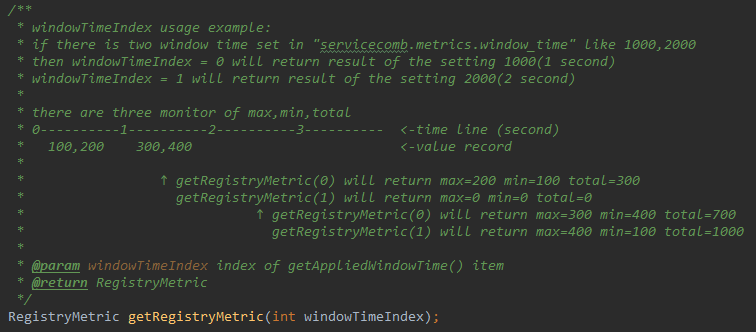
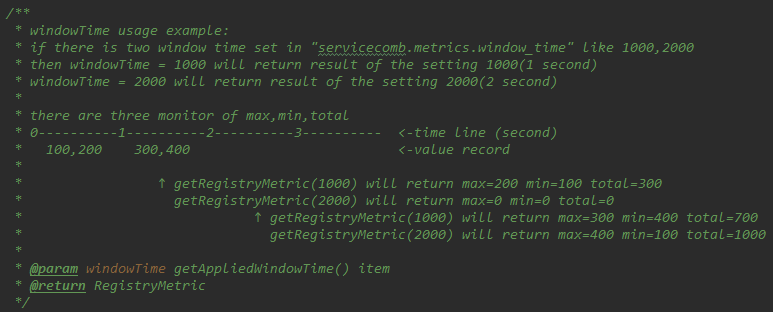
[SCB-132] User Guide and Quick Start for Metrics 1.0.0-m1 (#23)
* SCB-132 fix PR comment and update style

* SCB-132 fix PR comment and update style

* SCB-132 fix PR comment and update style

diff --git a/_users/cn/metrics-in-1.0.0-m1.md b/_users/cn/metrics-in-1.0.0-m1.md
@@ -25,11 +25,11 @@ redirect_from:
 
 ## 1.0.00-m1版本原理
 在0.5.0版本的实现介绍[0.5.0版本中的监控](/cn/users/metrics-in-0.5.0/)中，存在一些问题：
-1.metrics在foundation-metrics模块中实现，并且包含了一些具体的定制代码；  
-2.使用ThreadLocal变量收集和汇总数据，虽然性能很高，但是存在内存泄漏的风险；  
-3.Metrics的输出为固定的文本，而不是独立的数值，数据使用起来很不方便；  
-4.没有提供通用数据发布接口，难以和更多的第三方监控系统做集成；  
-5.由于foundation-metrics模块过于底层，用户无法以可选的方式决定是否启用；  
+1. metrics在foundation-metrics模块中实现，并且包含了一些具体的定制代码；  
+2. 使用ThreadLocal变量收集和汇总数据，虽然性能很高，但是存在内存泄漏的风险；  
+3. Metrics的输出为固定的文本，而不是独立的数值，数据使用起来很不方便；  
+4. 没有提供通用数据发布接口，难以和更多的第三方监控系统做集成；  
+5. 由于foundation-metrics模块过于底层，用户无法以可选的方式决定是否启用；  
 
 因此，从0.5.0版本升级到1.0.0-m1版本，我们进行了一次全面的重构，重构后的Metrics将分为三个模块  
 
@@ -53,7 +53,7 @@ redirect_from:
 | InvocationStartProcessingEventListener | Producer从队列中取出调用开始处理      |
 | InvocationFinishedEventListener        | Consumer调用返回或Producer处理完毕 |
 
-*特别说明，Java Chassis的Reactor框架基于Vertx，微服务Producer端收到Invocation后，并不会马上同步处理请求，而是将它放入一个处理队列中，Invocation在队列中的时间称为LifeTimeInQueue，队列的长度称为waitInQueue，这是衡量微服务压力的两个重要指标，可以参考操作系统磁盘读写队列的概念；Consumer端并不会有队列，因此永远不会触发InvocationStartProcessingEvent。
+*特别说明，Java Chassis的Reactor框架基于Vertx，微服务Producer端收到Invocation后，并不会马上同步处理请求，而是将它放入一个处理队列中，Invocation在队列中的时间称为LifeTimeInQueue，队列的长度称为waitInQueue，这是衡量微服务压力的两个重要指标，可以参考操作系统磁盘读写队列的概念；Consumer端并不会有队列，因此永远不会触发InvocationStartProcessingEvent。*
 
 事件触发的代码广泛分布在Java Chassis的RestInvocation、HighwayServerInvoke、HighwayClient和VertxHttpMethod中，如果微服务没有启用Metrics，EventBus中不会注入事件监听处理类，因此对性能的影响微乎其微。
 
@@ -67,12 +67,12 @@ Netflix Servo具有性能极高的计数器（Monitor），我们使用了四种
 | MinGauge     | 周期最小值计数器      |
 | MaxGauge     | 周期最大值计数器      |
 
-*依赖的Servo版本为0.10.1
+*依赖的Servo版本为0.10.1*
 
 ### 周期设置
-总所周知，Metric可以分为两大类：  
-1.时间无关型：诸如调用总次数、资源使用状况等等，Consumer无论何时获取Metric，总返回当前最新值；
-2.时间相关型：只有经过一个固定的周期时间才能够获取结果值，例如最大、最小、平均值等等，固定周期一般可以称为“统计时间窗”，在Servo中，这个时间被称为[“Polling Intervals”](https://github.com/Netflix/servo/wiki/Getting-Started)。  
+Metric可以分为两大类：  
+1. 时间无关型（直接取值）：诸如调用总次数、资源使用状况等等，Consumer无论何时获取Metric，总返回当前最新值；
+2. 时间相关型（统计取值）：只有经过一个固定的周期时间才能够获取结果值，例如最大、最小、平均值等等，固定周期一般可以称为“统计时间窗”，在Servo中，这个时间被称为[“Polling Intervals”](https://github.com/Netflix/servo/wiki/Getting-Started)。  
 从1.0.0-m1开始，通过servicecomb.metrics.window_time设置周期，效果与servo.pollers一致。
 
 ## Metric列表
@@ -108,7 +108,7 @@ Netflix Servo具有性能极高的计数器（Monitor），我们使用了四种
 | servicecomb | instance/operationName   | consumer | consumerCall    | total          |
 | servicecomb | instance/operationName   | consumer | consumerCall    | tps            |
 
-*operationName代表微服务Operation的全名，使用的是Java Chassis MicroserviceQualifiedName，它是微服务名.SchemaID.操作方法名的组合。
+*operationName代表微服务Operation的全名，使用的是Java Chassis MicroserviceQualifiedName，它是微服务名.SchemaID.操作方法名的组合。*
 
 ## 如何配置
 ### 全局配置
@@ -122,10 +122,11 @@ service_description:
 servicecomb:
   metrics:
     #时间窗间隔，与servo.pollers设置效果一致，单位毫秒
-    #支持多个时间窗间隔，使用逗号（,）将多个分隔开，例如5000,10000，代表设置两个时间窗，第一个时间窗5000的windowTimeIndex为0，第二个时间窗10000的windowTimeIndex为1，依此类推
-    window_time: 5000
+    #支持多个时间窗间隔，使用逗号（,）将多个分隔开，例如5000,10000，代表设置两个时间窗
+    window_time: 5000,10000
 ```
-*时间窗设置对于统计结果获取的影响，附上代码中包含的一段注释如下：  
+*时间窗设置对于统计结果获取的影响，附上代码中包含的一段注释如下：*  
+
 ![TimeWindowComment.png](/assets/images/TimeWindowComment.png)
 
 ### 依赖配置
@@ -154,21 +155,27 @@ public class DefaultMetricsPublisher implements MetricsPublisher {
   }
 
   @RequestMapping(path = "/appliedWindowTime", method = RequestMethod.GET)
+  @CrossOrigin
   @Override
   public List<Long> getAppliedWindowTime() {
     return dataSource.getAppliedWindowTime();
   }
 
   @RequestMapping(path = "/", method = RequestMethod.GET)
+  @CrossOrigin
   @Override
   public RegistryMetric metrics() {
     return dataSource.getRegistryMetric();
   }
 
-  @RequestMapping(path = "/{windowTimeIndex}", method = RequestMethod.GET)
+  @ApiResponses({
+      @ApiResponse(code = 400, response = String.class, message = "illegal request content"),
+  })
+  @RequestMapping(path = "/{windowTime}", method = RequestMethod.GET)
+  @CrossOrigin
   @Override
-  public RegistryMetric metricsWithWindowTimeIndex(@PathVariable(name = "windowTimeIndex") int windowTimeIndex) {
-    return dataSource.getRegistryMetric(windowTimeIndex);
+  public RegistryMetric metricsWithWindowTime(@PathVariable(name = "windowTime") long windowTime) {
+    return dataSource.getRegistryMetric(windowTime);
   }
 }
 ```
@@ -188,7 +195,8 @@ cse:
 @Autowired
 private DataSource dataSource;
 ```
-*我们已经开发完成了两个使用场景可以作为参考：
-1.metrics-wirte-file：将Metrics数据写入文件，代码在metrics-extension中
-2.metrics-prometheus：将Metrics发布为prometheus Producer
 
+## 参考示例
+我们已经开发完成了两个使用场景可以作为参考：  
+1. metrics-wirte-file：将Metrics数据写入文件，代码在metrics-extension中；  
+2. metrics-prometheus：将Metrics发布为prometheus Producer。  

diff --git a/_users/cn/metrics-write-file-extension-and-sample-in-1.0.0-m1.md b/_users/cn/metrics-write-file-extension-and-sample-in-1.0.0-m1.md
@@ -15,7 +15,7 @@ redirect_from:
 ## 背景
 0.5.0版本的foundation-metrics实现了将采集到的Metrics数据写入文件，在1.0.0-m1中，此功能移动到metrics-extension中；  
 从1.0.0-m1版本开始支持输出Operation级别的Metric，因此无法通过固定配置的方式配置日志输出，将采用代码的方式在运行时为每一个Metric自动创建专用的RollingFileAppender。
-功能包含如下模块：
+功能包含如下模块：  
 
 | Module名                         | 描述                              |
 | :------------------------------- | :------------------------------   |
@@ -24,7 +24,7 @@ redirect_from:
 | metrics-write-file-config-log4j  | 使用Log4j的RollingFileAppender写文件     |
 | metrics-write-file-config-log4j2 | 使用Log4j2的RollingFileAppender写文件      |
 
-*暂未提供logback的metrics-write-file-config，参考Log4j和log4j2的例子可以很容易实现metrics-write-file-config-logback
+*暂未提供logback的metrics-write-file-config，参考Log4j和log4j2的例子可以很容易实现metrics-write-file-config-logback*
 
 ## 配置
 ### 全局配置
@@ -50,11 +50,11 @@ servicecomb:
         #文件最大大小，单位可以是KB，MB和GB
         max_file_size : 10MB
 ```
-*与0.5.0版本配置的比较：
-1.旧版本使用servicecomb.metrics.polltime(单位秒)配置文件输出间隔，1.0.0-m1版本中旧版本功能仍然存在；
-2.新版本添加依赖即启用，因此没有老版本类似servicecomb.metrics.file.enabled开关，这个开关可以用于关闭老版本输出（老版本预定在下一个版本1.0.0-m2中彻底移除）；
-3.新版本无需配置servicecomb.metrics.filename_prefix，默认为微服务的appId.serviceName；
-4.新版本增加了对rolling file的设置，这些配置在老版本是配置在日志的xml或properties文件里的。
+与0.5.0版本配置的比较：
+1. 旧版本使用servicecomb.metrics.polltime(单位秒)配置文件输出间隔，1.0.0-m1版本中旧版本功能仍然存在；  
+2. 新版本添加依赖即启用，因此没有老版本类似servicecomb.metrics.file.enabled开关，这个开关可以用于关闭老版本输出（老版本预定在下一个版本1.0.0-m2中彻底移除）；  
+3. 新版本无需配置servicecomb.metrics.filename_prefix，默认为微服务的appId.serviceName；  
+4. 新版本增加了对rolling file的设置，这些配置在老版本是配置在日志的xml或properties文件里的。  
 
 ### 依赖配置
 Java Chassis支持直接启动和Spring Boot Starter启动两种模式，两种模式下的配置详细描述如下：
@@ -161,13 +161,13 @@ spring boot starter中包含了log4j-over-slf4j，这个依赖会在运行态屏
 可以看到，spring boot starter默认使用的是log4j作为日志实现，无论你是否排除log4j的相关依赖，并不会对log4j2 write file造成任何影响，两者并存，因此依赖方面与直接启动是相同的。
 
 ## Q & A
-1.在新的1.0.0-m1版本里，我是否还需要在日志配置文件（例如log4j2.xml） 中追加任何修改吗？
+1. 在新的1.0.0-m1版本里，我是否还需要在日志配置文件（例如log4j2.xml） 中追加任何修改吗？  
 不需要，metrics-write-file-config-xxx会在运行态自动为metric生成对应的RollingFileAppender，并且这个Appender与你日志配置的Appenders没有任何关系。
 
-2.我发现metrics-write-file-config-log4j2中创建RollingFileAppender是使用一个标记为过期的createAppender方法，为什么不使用新的的newBuilder ... build模式？
+2. 我发现metrics-write-file-config-log4j2中创建RollingFileAppender是使用一个标记为过期的createAppender方法，为什么不使用新的的newBuilder ... build模式？  
 开发的时候发现newBuilder ... build与微服务框架存在某种冲突导致不可用，另外，官方文档的[示例代码](https://logging.apache.org/log4j/2.x/manual/customconfig.html)仍然使用的是createAppender，缺乏资料也给定位问题造成了一定的麻烦；我们将在下一个版本1.0.0-m2中去修复，已标记TODO。
 
-3.集成后出现RollingFileAppender抛ClassNotFoundException之类的错误？
+3. 集成后出现RollingFileAppender抛ClassNotFoundException之类的错误？  
 众所周知，Java开发主流都使用slf4j或jcl做为日志框架，然后桥接具体的日志实现，例如log4j、log4j2和logback，通过配置文件初始化日志组件，达到随意更换弱绑定的效果，并不推荐编码方式创建日志组件。
 但由于1.0.0-m1版本开始支持Operation级别的Metric输出，不同的微服务Operation不同，并且单Operation会有15+以上的Metric，因此手动配置已不具备可操作性，必须通过Coding的方式动态生成RollingFileAppender。
 如果你的项目中包含类似log4j-over-slf4j这样的Bridging依赖，就很可能会出现这样的问题，请使用mvn dependency:tree检查。

diff --git a/_users/cn/metrics-in-0.5.0.md b/_users/cn/metrics-in-0.5.0.md
@@ -1,9 +1,9 @@
 ---
-title: "Metrics监控"
+title: "0.5.0版本中的监控"
 lang: cn
 ref: metrics
-permalink: /cn/users/metrics/
-excerpt: "Metrics监控"
+permalink: /cn/users/metrics-in-0.5.0/
+excerpt: "0.5.0版本中的监控"
 last_modified_at: 2017-12-29T14:01:43-04:00
 redirect_from:
   - /theme-setup/
@@ -31,7 +31,7 @@ Logger名指的是LoggerFactory.getLogger后的第一个参数：
 static final Logger log = LoggerFactory.getLogger("${Logger名}");
 log.trace("${Metric数据}");
 ```
-*为不影响调试，log的输出级别为trace
+**为不影响调试，log的输出级别为trace**
 
 以下是我们的定向Logger名以及输出的Metrics含义：   
 
@@ -75,7 +75,7 @@ servicecomb:
 ```
 
 ## 注意事项
-* 需要在provider治理链中添加bizkeeper-provider，否则TPS和Latency无数据
+**需要在provider治理链中添加bizkeeper-provider，否则TPS和Latency无数据**
 ```yaml
 APPLICATION_ID: demo
 service_description:
